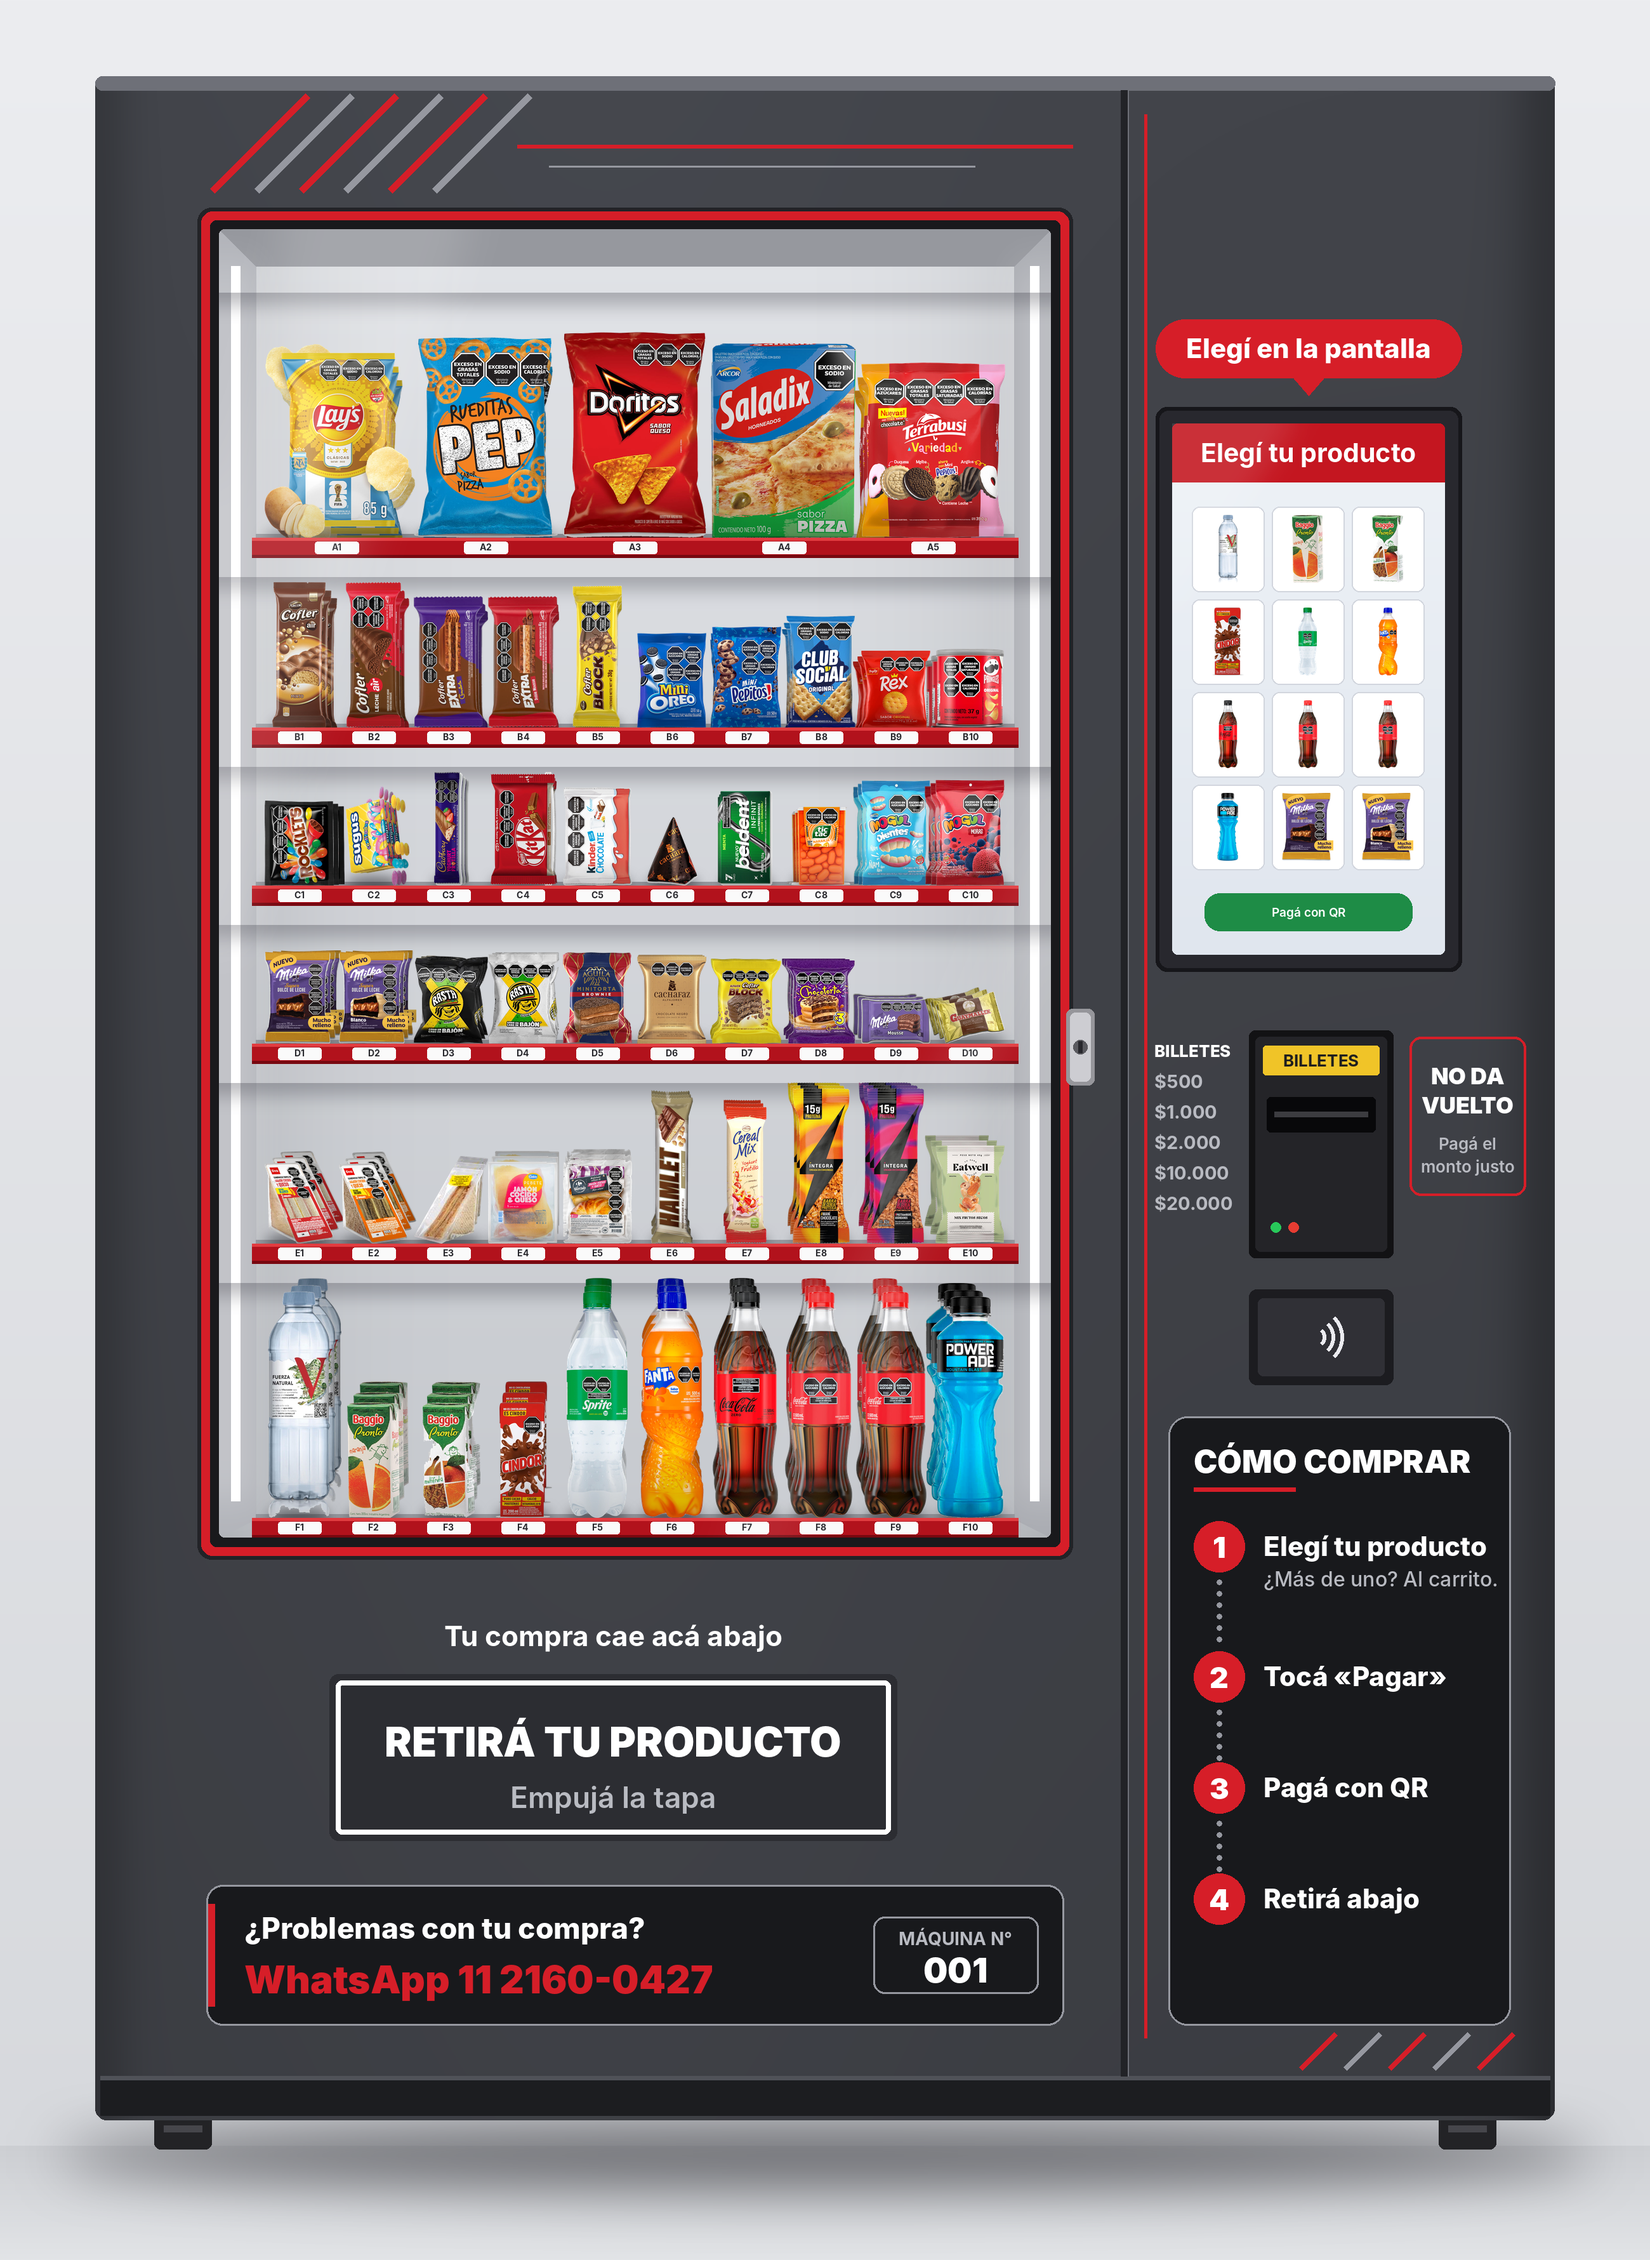
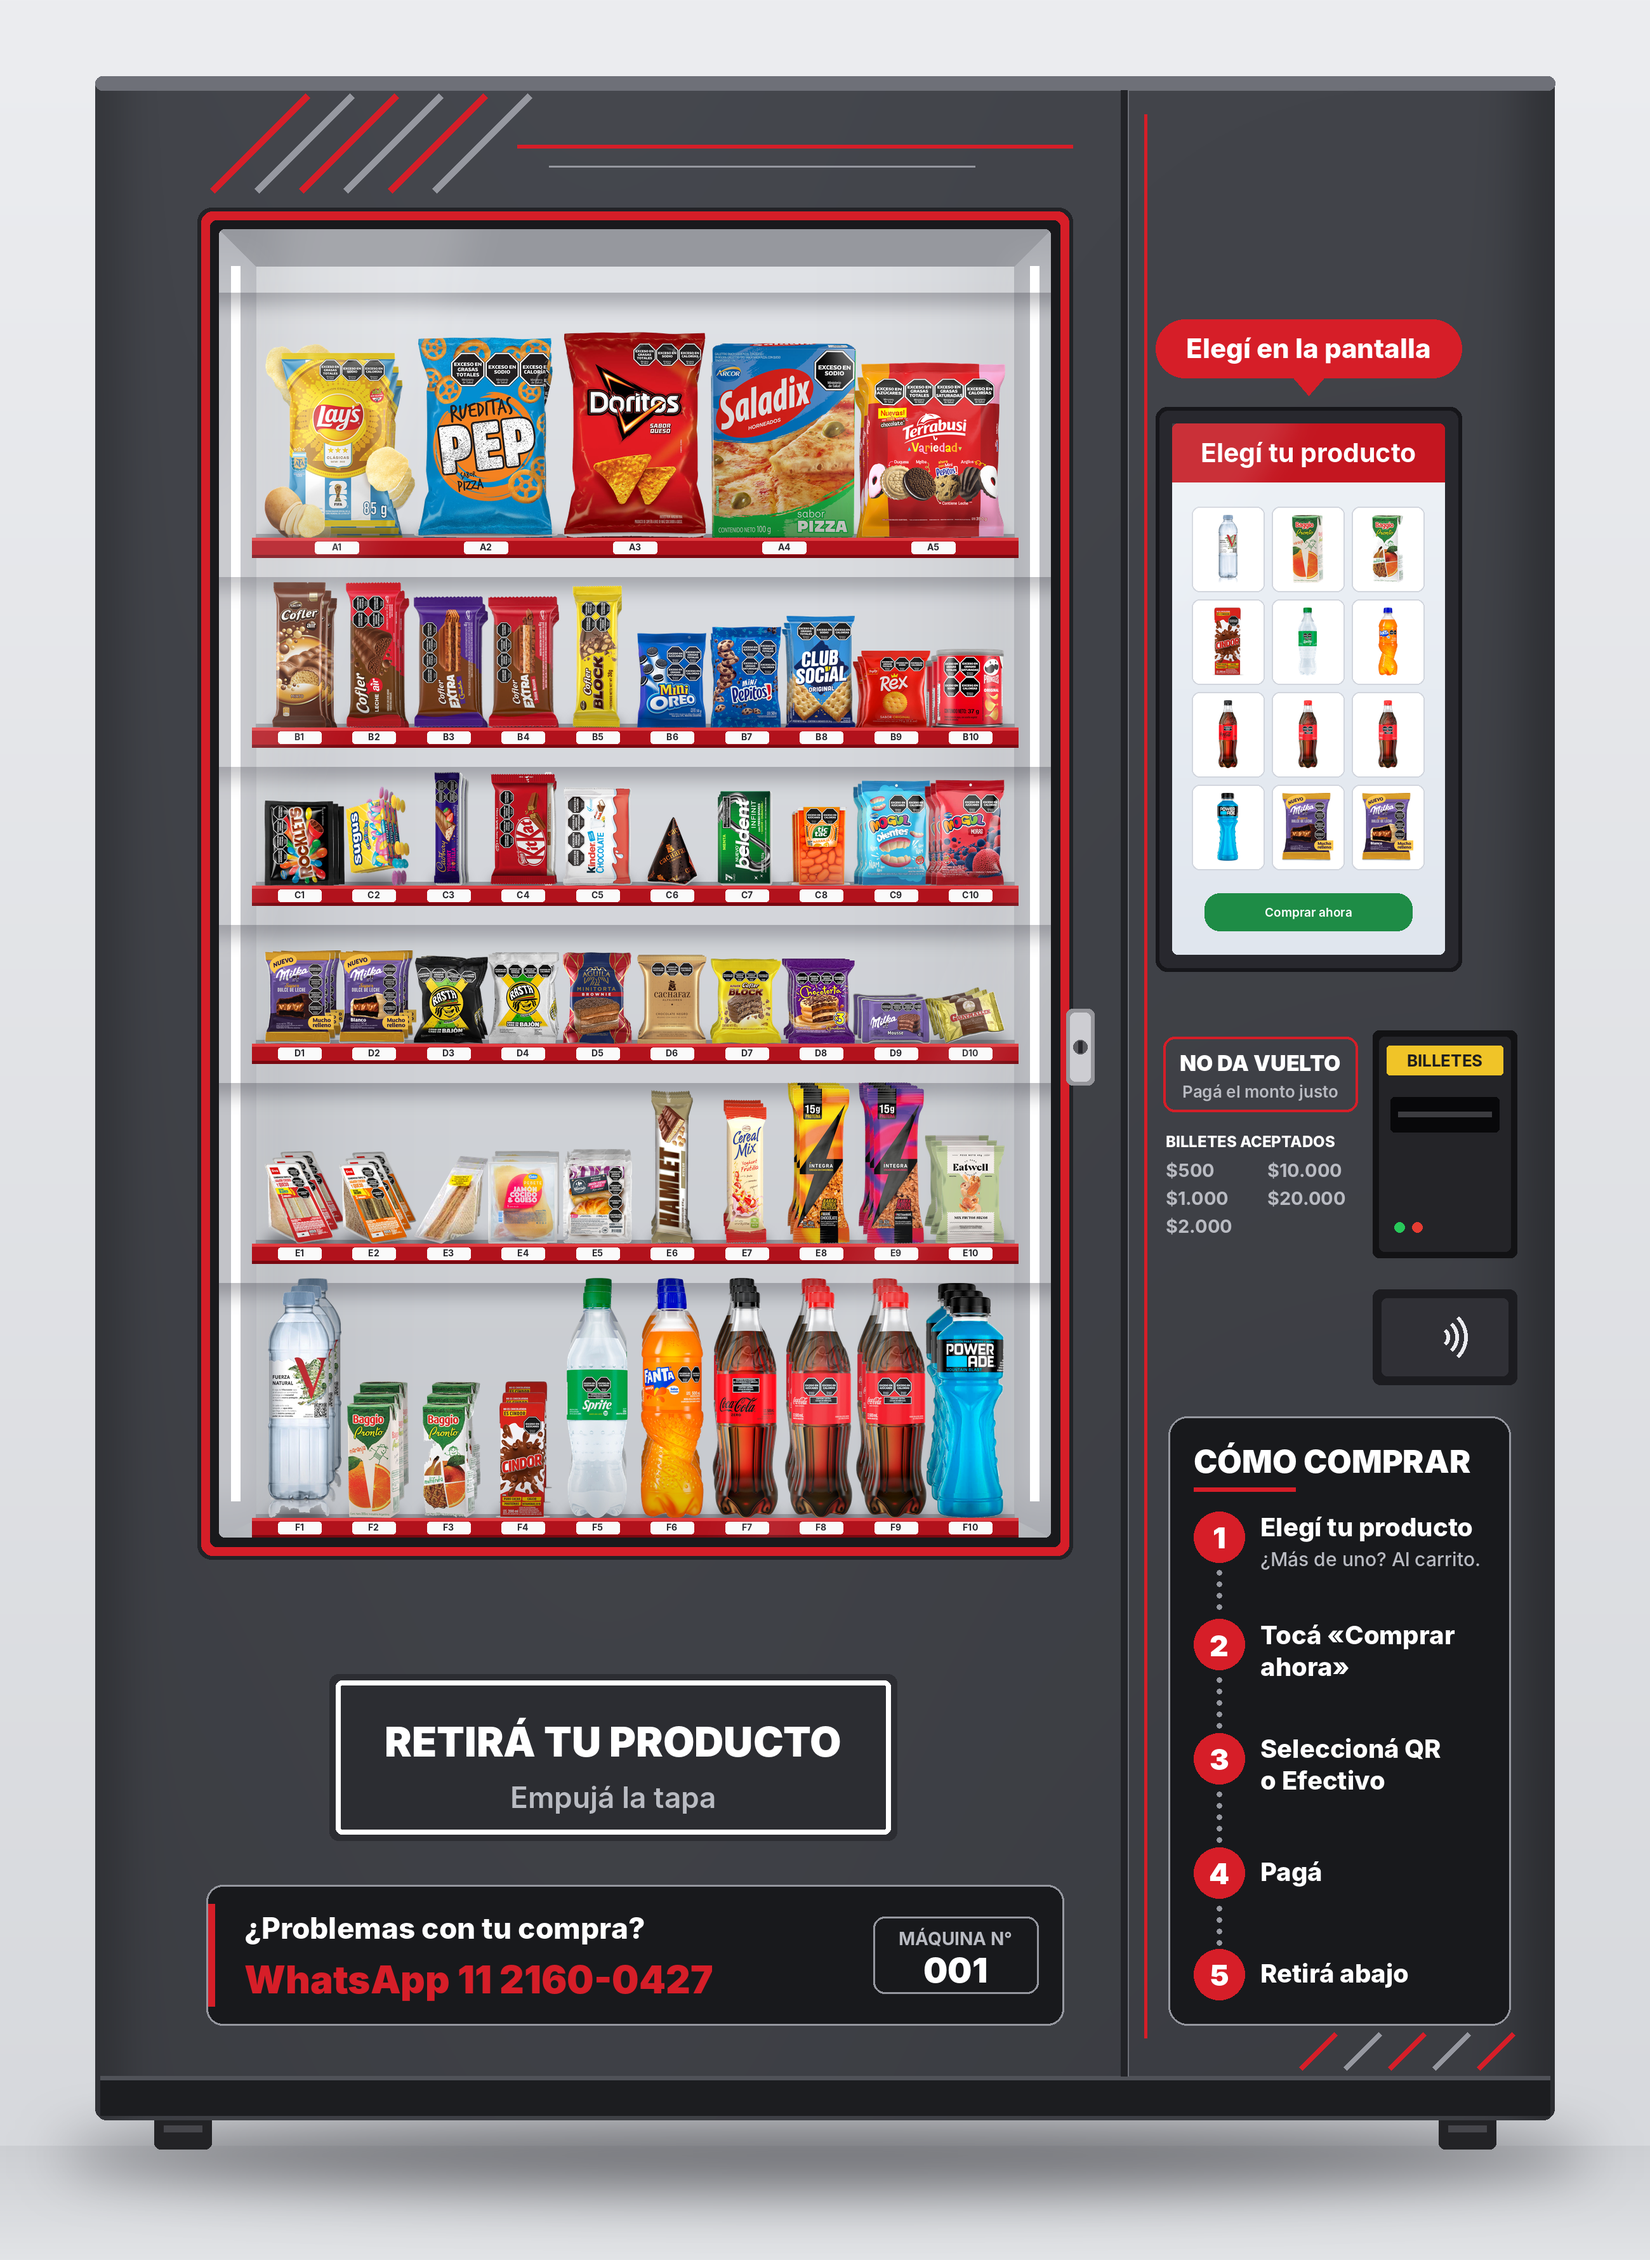
Ploteo sanatorio: pasos con Comprar ahora y QR o Efectivo, billetero a la derecha
Claude-Session: https://claude.ai/code/session_019riW69UisGa26ciLraXE3K

Changed region(s): [[0.6854, 0.4365, 0.9346, 0.6236], [0.7165, 0.6548, 0.9035, 0.9042], [0.2804, 0.7171, 0.4673, 0.7483]]

diff --git a/maquina-expendedora/scripts/ploteo_sanatorio.py b/maquina-expendedora/scripts/ploteo_sanatorio.py
@@ -35,7 +35,11 @@ def lineas_diagonales(d, x0, y0, n, largo, sep, ancho, colores, sube=True):
 
 
 def ploteo(v):
-    C.PAL = v["pal"]; C.DIBUJAR_PUSH = False; C.TEXTO_PAGO = "Pagá con QR"
+    C.PAL = v["pal"]; C.DIBUJAR_PUSH = False; C.TEXTO_PAGO = "Comprar ahora"
+    # En la máquina real el billetero está casi pegado al borde derecho del panel
+    _, by0_, _, by1_ = C.BILL
+    bw = C.BILL[2] - C.BILL[0]
+    C.BILL = (C.MX0 + C.MW - 70 - bw, by0_, C.MX0 + C.MW - 70, by1_)
     img = C.componer({1, 2, 3, 4, 5, 6}, "tmp", "distribucion.json", guardar=False).convert("RGB")
     d = ImageDraw.Draw(img)
     caja, l2 = v["caja"], v["linea2"]
@@ -60,18 +64,18 @@ def ploteo(v):
     d.polygon([(cx - 26, ey1 - 2), (cx + 26, ey1 - 2), (cx, ey1 + 28)], fill=ROJO)
     centro(d, (cx, (ey0 + ey1) / 2), "Elegí en la pantalla", fnt("xb", 42), BLANCO)
 
-    # Billetero: por si se habilita el efectivo (el medio de pago principal es QR)
+    # Billetero: por si se habilita el efectivo. Todo a su izquierda, en una sola columna.
     bx0, by0, bx1, by1 = C.BILL
-    lx = P + 48
-    d.text((lx, by0 + 6), "BILLETES", font=fnt("xb", 26), fill=BLANCO)
-    for i, b in enumerate(["$500", "$1.000", "$2.000", "$10.000", "$20.000"]):
-        d.text((lx, by0 + 52 + i * 48), b, font=fnt("b", 29), fill=GRIS_T)
-    rx0, rx1 = bx1 + 36, R - 46
-    d.rounded_rectangle((rx0, by0, rx1, by0 + 250), 18, outline=ROJO, width=4)
-    centro(d, ((rx0 + rx1) / 2, by0 + 62), "NO DA", fnt("black", 36), BLANCO)
-    centro(d, ((rx0 + rx1) / 2, by0 + 108), "VUELTO", fnt("black", 36), BLANCO)
-    centro(d, ((rx0 + rx1) / 2, by0 + 168), "Pagá el", fnt("sb", 26), GRIS_T)
-    centro(d, ((rx0 + rx1) / 2, by0 + 204), "monto justo", fnt("sb", 26), GRIS_T)
+    lx0, lx1 = P + 62, bx0 - 34
+    lc = (lx0 + lx1) / 2
+    d.rounded_rectangle((lx0, by0, lx1, by0 + 118), 18, outline=ROJO, width=4)
+    centro(d, (lc, by0 + 42), "NO DA VUELTO", fnt("black", 34), BLANCO)
+    centro(d, (lc, by0 + 86), "Pagá el monto justo", fnt("sb", 26), GRIS_T)
+    d.text((lx0 + 4, by0 + 150), "BILLETES ACEPTADOS", font=fnt("xb", 24), fill=BLANCO)
+    billetes = ["$500", "$1.000", "$2.000", "$10.000", "$20.000"]
+    for i, b in enumerate(billetes):
+        col, fila = divmod(i, 3)
+        d.text((lx0 + 4 + col * 160, by0 + 192 + fila * 44), b, font=fnt("b", 29), fill=GRIS_T)
 
     # Cómo comprar (fondo negro, letras claras, borde de línea)
     sx0, sx1, sy0 = P + 70, R - 70, by1 + 260
@@ -79,19 +83,29 @@ def ploteo(v):
     d.rounded_rectangle((sx0, sy0, sx1, sy1), 30, fill=caja, outline=l2, width=3)
     d.text((sx0 + 40, sy0 + 40), "CÓMO COMPRAR", font=fnt("black", 50), fill=BLANCO)
     d.line((sx0 + 40, sy0 + 115, sx0 + 200, sy0 + 115), fill=ROJO, width=7)
-    pasos = [("Elegí tu producto", "¿Más de uno? Al carrito."), ("Tocá «Pagar»", None),
-             ("Pagá con QR", None), ("Retirá abajo", None)]
-    y = sy0 + 165
-    for i, (t, sub) in enumerate(pasos):
+    # cada paso: líneas del título (en blanco) + líneas de aclaración (en gris)
+    pasos = [(["Elegí tu producto"], ["¿Más de uno? Al carrito."]),
+             (["Tocá «Comprar", "ahora»"], []),
+             (["Seleccioná QR", "o Efectivo"], []),
+             (["Pagá"], []),
+             (["Retirá abajo"], [])]
+    alto = lambda t, s: max(80, 50 * len(t) + 40 * len(s))
+    libre = (sy1 - 40) - (sy0 + 150) - sum(alto(t, s) for t, s in pasos)
+    gap = libre / (len(pasos) - 1)
+    y = sy0 + 150
+    for i, (tit, sub) in enumerate(pasos):
+        h = alto(tit, sub)
         d.ellipse((sx0 + 40, y, sx0 + 120, y + 80), fill=ROJO)
         centro(d, (sx0 + 80, y + 41), str(i + 1), fnt("black", 46), BLANCO)
-        d.text((sx0 + 150, y + 14), t, font=fnt("xb", 42), fill=BLANCO)
-        if sub:
-            d.text((sx0 + 150, y + 72), sub, font=fnt("m", 32), fill=GRIS_T)
+        ty = y + (14 if len(tit) == 1 and not sub else 0)
+        for j, ln in enumerate(tit):
+            d.text((sx0 + 145, ty + j * 50), ln, font=fnt("xb", 40), fill=BLANCO)
+        for j, ln in enumerate(sub):
+            d.text((sx0 + 145, ty + len(tit) * 50 + 6 + j * 40), ln, font=fnt("m", 30), fill=GRIS_T)
         if i < len(pasos) - 1:                # línea punteada que une los pasos
-            for yy in range(int(y + 92), int(y + (195 if sub else 165)), 18):
+            for yy in range(int(y + 92), int(y + h + gap - 10), 18):
                 d.ellipse((sx0 + 76, yy, sx0 + 84, yy + 8), fill=l2)
-        y += 205 if sub else 175
+        y += h + gap
 
     # Puerta de retiro
     qx0, qy0, qx1, qy1 = C.PUSH
@@ -99,7 +113,6 @@ def ploteo(v):
     d.rounded_rectangle((qx0, qy0, qx1, qy1), 10, outline=BLANCO, width=8)
     centro(d, ((qx0 + qx1) / 2, qy0 + (qy1 - qy0) * 0.40), "RETIRÁ TU PRODUCTO", fnt("black", 64), BLANCO)
     centro(d, ((qx0 + qx1) / 2, qy0 + (qy1 - qy0) * 0.76), "Empujá la tapa", fnt("sb", 46), GRIS_T)
-    centro(d, ((qx0 + qx1) / 2, qy0 - 70), "Tu compra cae acá abajo", fnt("b", 44), BLANCO)
 
     # Soporte: WhatsApp y número de máquina
     wy0, wy1 = qy1 + 80, B - 150
